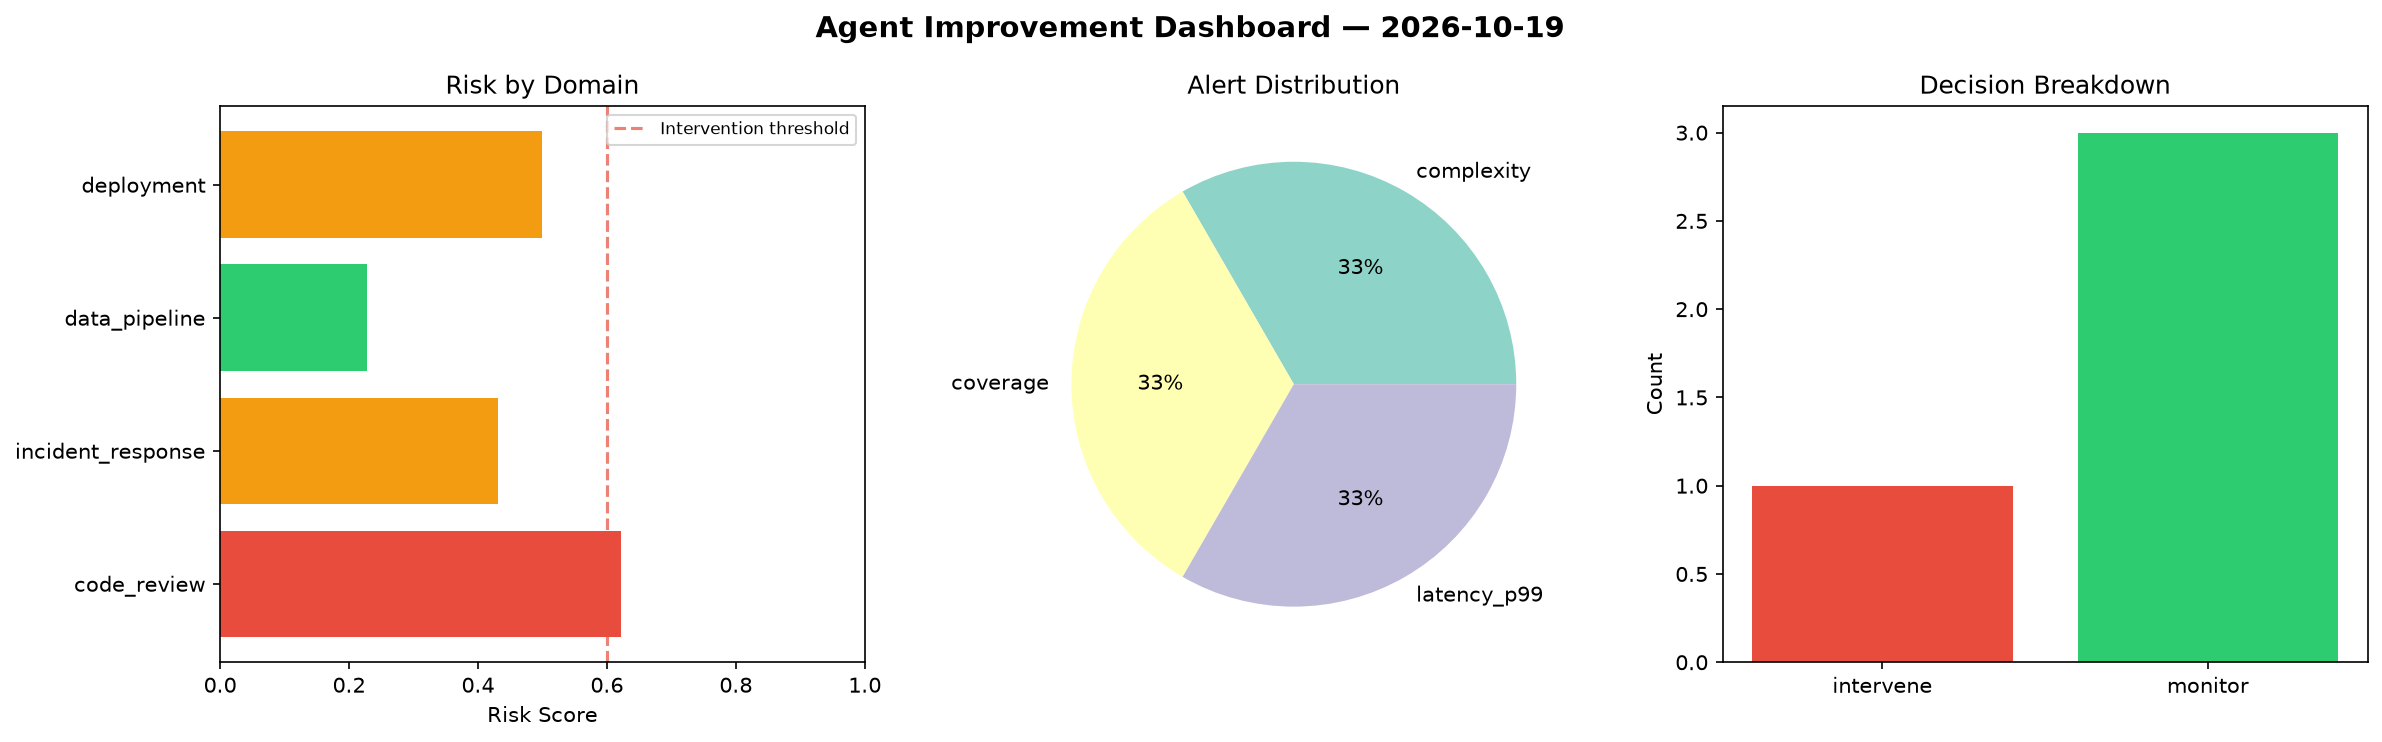
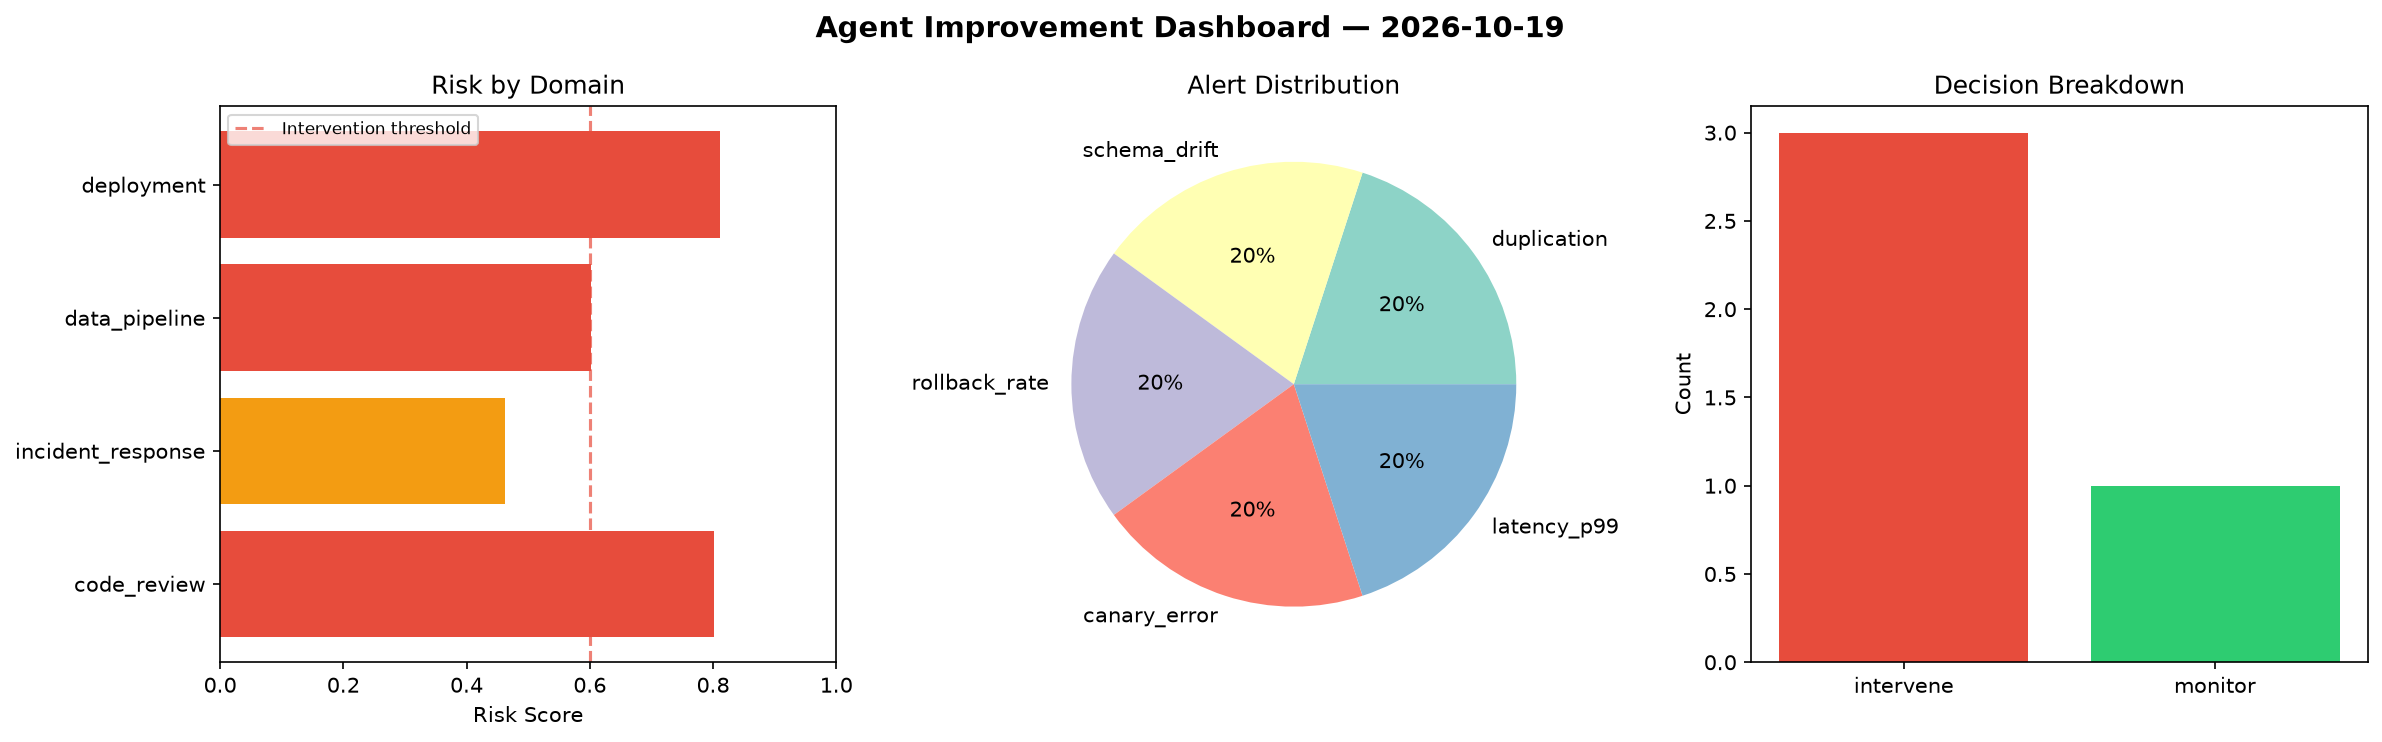
agent-improvement: daily cycle 2026-10-19T15:35

diff --git a/logs/2026-10-19.md b/logs/2026-10-19.md
@@ -1,6 +1,6 @@
 # Agent Improvement Report — 2026-10-19
 
-**Cycle ID:** `d995cb27` | **Avg Risk:** 0.4452 | **Interventions:** 1/4
+**Cycle ID:** `dc364e4d` | **Avg Risk:** 0.6695 | **Interventions:** 3/4
 
 ![Dashboard](2026-10-19_dashboard.png)
 
@@ -10,18 +10,18 @@
 
 | Domain | Risk Score | Decision | Alerts |
 |--------|-----------|----------|--------|
-| code_review | 0.622 | intervene | complexity, coverage |
-| incident_response | 0.4315 | monitor | none |
-| data_pipeline | 0.2284 | monitor | none |
-| deployment | 0.4989 | monitor | latency_p99 |
+| code_review | 0.802 | intervene | duplication |
+| incident_response | 0.4623 | monitor | none |
+| data_pipeline | 0.602 | intervene | schema_drift |
+| deployment | 0.8119 | intervene | rollback_rate, canary_error, latency_p99 |
 
 ## Delta vs Yesterday
 
 | Domain | Today | Yesterday | Change |
 |--------|-------|-----------|--------|
-| code_review | 0.622 | 0.4553 | 📈 36.6% |
-| incident_response | 0.4315 | 0.6343 | 📉 -32.0% |
-| data_pipeline | 0.2284 | 0.4349 | 📉 -47.5% |
-| deployment | 0.4989 | 0.5873 | 📉 -15.1% |
+| code_review | 0.802 | 0.4553 | 📈 76.1% |
+| incident_response | 0.4623 | 0.6343 | 📉 -27.1% |
+| data_pipeline | 0.602 | 0.4349 | 📈 38.4% |
+| deployment | 0.8119 | 0.5873 | 📈 38.2% |
 
-**Refinement:** `{'adjustment': 'maintain', 'trend': 'improving', 'window': 4}`
+**Refinement:** `{'adjustment': 'tighten_thresholds', 'trend': 'degrading', 'window': 4}`
